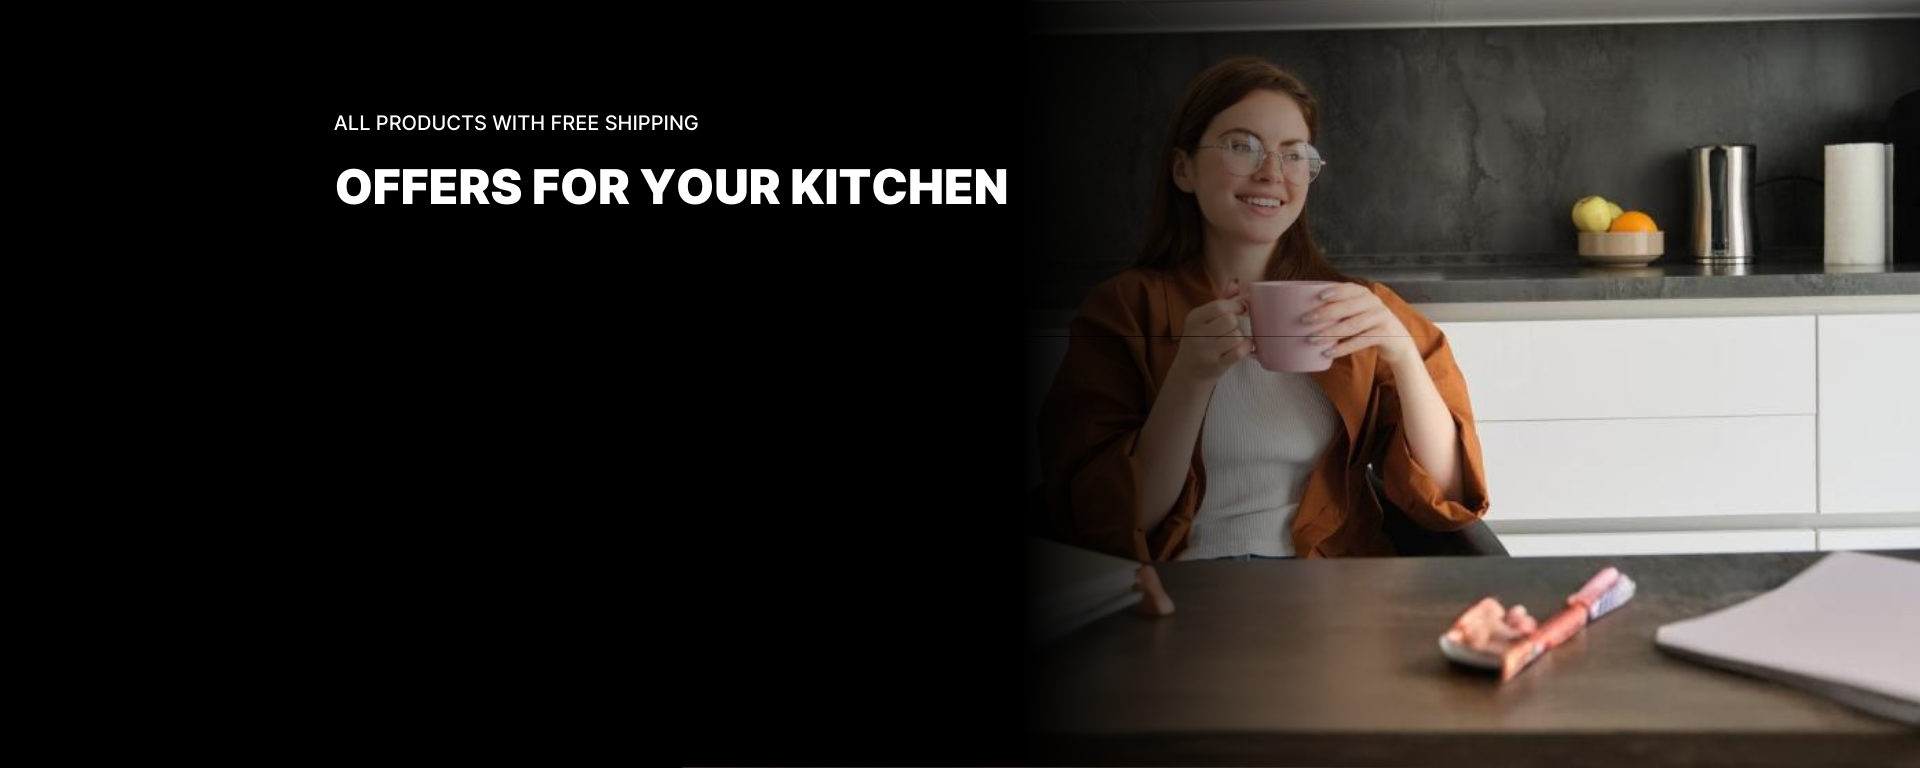
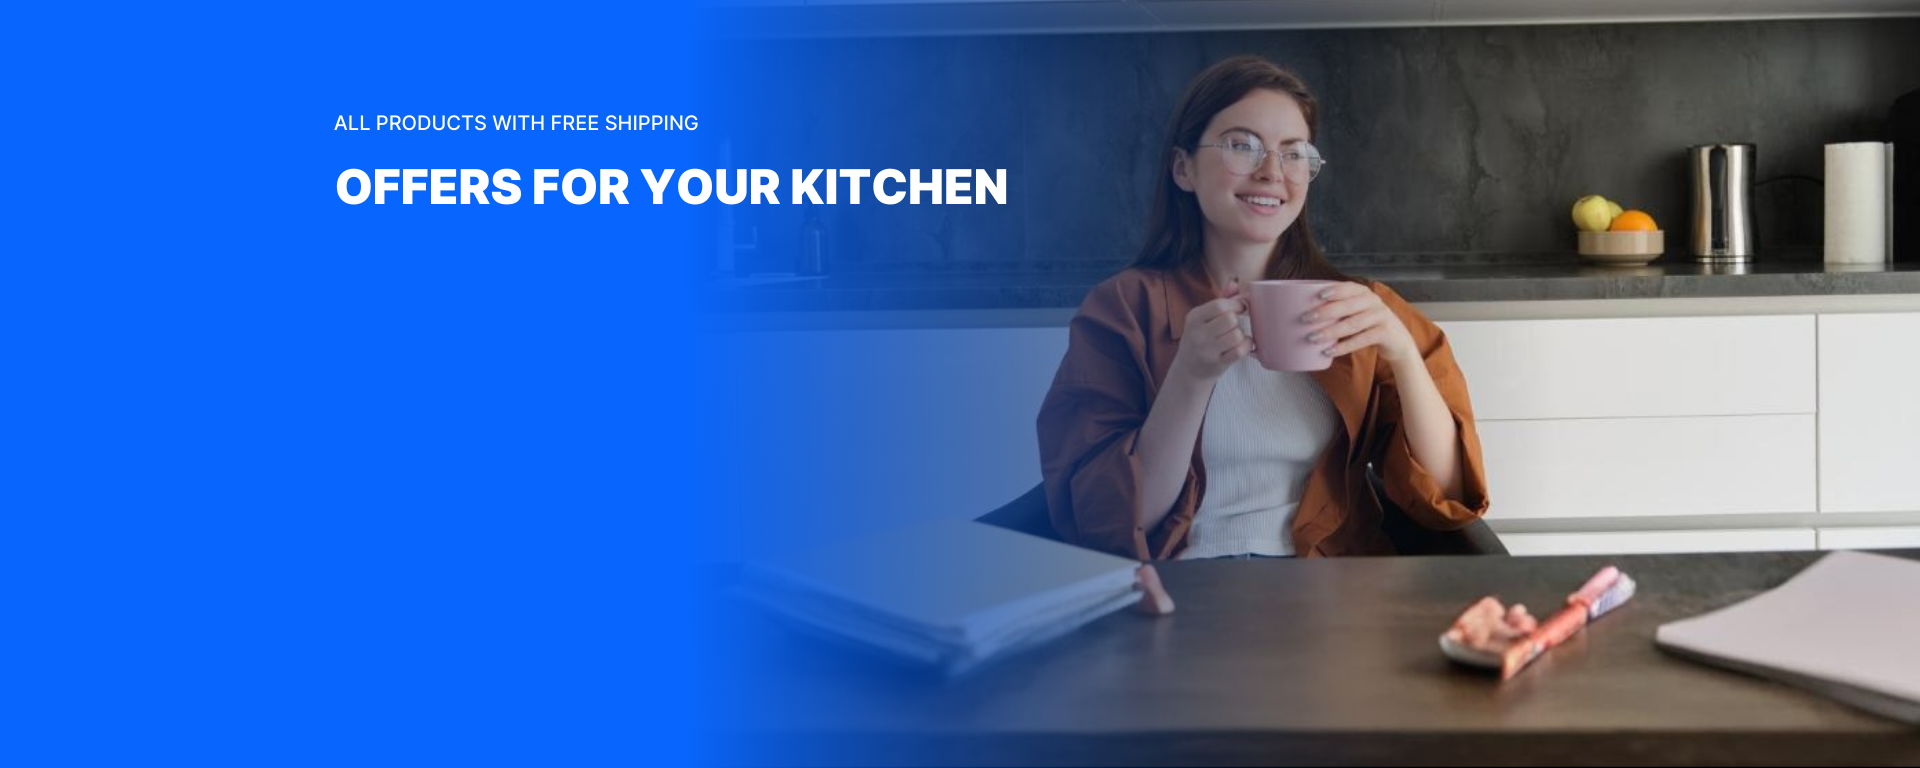
styles

diff --git a/frontend-main/src/views/home/CategoryComp.vue b/frontend-main/src/views/home/CategoryComp.vue
@@ -3,44 +3,44 @@
         <BandComp />
         <div class="grid-container">
             <div class="column first">
-                <div class="card" v-for="(category, index) in column1" :key="index"
-                    @click="searchCategory(category.name)">
-                    <div class="legend">{{ category.name }}</div>
-                    <div class="conta" :style="{ background: category.background }">
+                <div class="card" v-for="(item, index) in column1" :key="index"
+                    @click="searchCategory(item.name)">
+                    <div class="legend">{{ item.name }}</div>
+                    <div class="conta" :style="{ background: item.background }">
                         <div class="mask"
-                            :style="{ backgroundImage: `url(${getURL(category.index)})`, backgroundPositionY: category.y }" />
+                            :style="{ backgroundImage: `url(${getURL(item.index)})`, backgroundPositionY: item.y, backgroundPositionX: item.x }" />
                     </div>
                 </div>
             </div>
             <div class="column second">
-                <div class="card" v-for="(category, index) in column2" :key="index"
-                    @click="searchCategory(category.name)">
-                    <div class="legend">{{ category.name }}</div>
-                    <div class="conta" :style="{ background: category.background }">
+                <div class="card" v-for="(item, index) in column2" :key="index"
+                    @click="searchCategory(item.name)">
+                    <div class="legend">{{ item.name }}</div>
+                    <div class="conta" :style="{ background: item.background }">
                         <div class="mask"
-                            :style="{ backgroundImage: `url(${getURL(category.index)})`, backgroundPositionY: category.y }" />
+                            :style="{ backgroundImage: `url(${getURL(item.index)})`, backgroundPositionY: item.y, backgroundPositionX: item.x }" />
                     </div>
 
                 </div>
             </div>
             <div class="column third">
-                <div class="card" v-for="(category, index) in column3" :key="index"
-                    @click="searchCategory(category.name)">
-                    <div class="legend">{{ category.name }}</div>
-                    <div class="conta" :style="{ background: category.background }">
+                <div class="card" v-for="(item, index) in column3" :key="index"
+                    @click="searchCategory(item.name)">
+                    <div class="legend">{{ item.name }}</div>
+                    <div class="conta" :style="{ background: item.background }">
                         <div class="mask"
-                            :style="{ backgroundImage: `url(${getURL(category.index)})`, backgroundPositionY: category.y }" />
+                            :style="{ backgroundImage: `url(${getURL(item.index)})`, backgroundPositionY: item.y, backgroundPositionX: item.x }" />
                     </div>
                 </div>
             </div>
 
             <div class="column four">
-                <div class="card" v-for="(category, index) in column4" :key="index"
-                    @click="searchCategory(category.name)">
-                    <div class="legend">{{ category.name }}</div>
-                    <div class="conta" :style="{ background: category.background }">
+                <div class="card" v-for="(item, index) in column4" :key="index"
+                    @click="searchCategory(item.name)">
+                    <div class="legend">{{ item.name }}</div>
+                    <div class="conta" :style="{ background: item.background }">
                         <div class="mask"
-                            :style="{ backgroundImage: `url(${getURL(category.index)})`, backgroundPositionY: category.y, backgroundPositionX: category.x }" />
+                            :style="{ backgroundImage: `url(${getURL(item.index)})`, backgroundPositionY: item.y, backgroundPositionX: item.x }" />
                     </div>
                 </div>
             </div>
@@ -132,6 +132,7 @@ const column4 = categoryArray.slice(9, 15);
 
 <style lang="css" scoped>
 .category {
+    background: var(--background-b);
     flex-direction: column;
     justify-content: center;
     color: var(--text-a);
@@ -181,16 +182,6 @@ const column4 = categoryArray.slice(9, 15);
     width: 150px;
 }
 
-.name {
-    font-size: var(--text-size-1);
-    white-space: break-spaces;
-    margin-top: 1rem;
-    text-align: center;
-    word-break: break-word;
-    font-weight: 500;
-    height: 45px;
-    width: 80%;
-}
 
 .icon {
     width: 34px;
@@ -203,7 +194,7 @@ const column4 = categoryArray.slice(9, 15);
     width: 100%;
     height: 100vh;
     max-width: var(--body-b);
-    margin-top: 325px;
+    margin-top: 350px;
     z-index: 2;
 }
 
@@ -277,7 +268,7 @@ const column4 = categoryArray.slice(9, 15);
     justify-content: center;
     border-radius: 0px;
     margin: 2rem 0;
-    gap: 1rem;
+    gap: 2rem;
 }
 
 .horizontal-item {
@@ -286,4 +277,15 @@ const column4 = categoryArray.slice(9, 15);
     flex-direction: column;
     display: flex;
 }
+
+.name {
+    font-size: var(--text-size-1);
+    white-space: break-spaces;
+    margin-top: 1rem;
+    text-align: center;
+    word-break: break-word;
+    font-weight: 500;
+    height: 45px;
+}
+
 </style>

diff --git a/frontend-main/src/views/home/BandComp.vue b/frontend-main/src/views/home/BandComp.vue
@@ -112,7 +112,7 @@ onBeforeUnmount(() => {
 }
 
 .band-arrow {
-    background: rgba(0, 0, 0, 0.1);
+    background: rgba(0, 0, 0, 0.3);
     width: 60px;
     height: 60px;
     border-radius: 50%;
@@ -146,7 +146,6 @@ onBeforeUnmount(() => {
 .band-dots {
     position: absolute;
     bottom: 10px;
-
     display: flex;
     justify-content: center;
     width: 100%;
@@ -171,6 +170,6 @@ onBeforeUnmount(() => {
     height: 100%;
     z-index: 3;
     position: absolute;
-    background: linear-gradient(0deg, var(--background-a) 0%, transparent 60%);
+    background: linear-gradient(0deg, var(--background-b) 0%, transparent 60%);
 }
 </style>
